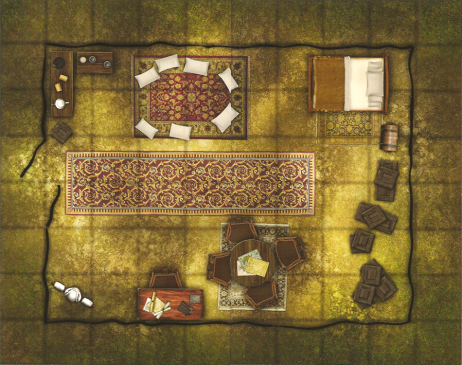
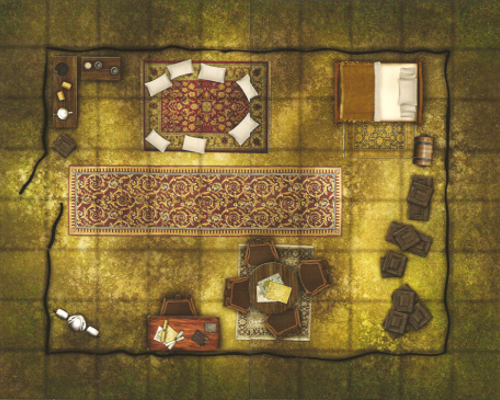
Correcion de escala del mapa de fondo de la habitacion 1

diff --git a/client/styles/map.css b/client/styles/map.css
@@ -54,7 +54,7 @@ div.tresD {
 /*Mapas*/
 div.background-mapa { background-repeat: no-repeat; }
 
-div.background-mapa.habitacion-1 { background-image: url("img/habitacion-1-950x750.png"); }
+div.background-mapa.habitacion-1 { background-image: url("img/habitacion-1-500x400.png"); }
 div.background-mapa.village-7 { background-image: url("img/village-07-500x400.jpg"); }
 div.background-mapa.swamp-1 { background-image: url("img/Swamp1_1500x1200.jpg"); }
 div.background-mapa.town-square { background-image: url("img/Town_Square_1500x1200.jpg"); }
